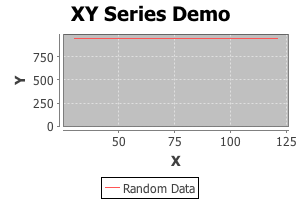
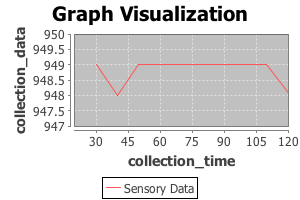
the updated version

diff --git a/Utils/JBPMEngine/src/main/java/at/ac/tuwien/dsg/utility/DesignChart.java b/Utils/JBPMEngine/src/main/java/at/ac/tuwien/dsg/utility/DesignChart.java
@@ -8,66 +8,68 @@ import java.awt.image.BufferedImage;
 import java.io.File;
 import java.util.LinkedList;
 import javax.imageio.ImageIO;
-import org.jfree.chart.ChartFactory;
-import org.jfree.chart.ChartPanel;
+import org.jfree.chart.*;
 import org.jfree.chart.JFreeChart;
+import org.jfree.chart.axis.NumberAxis;
+import org.jfree.chart.axis.NumberTickUnit;
 import org.jfree.chart.plot.PlotOrientation;
-import org.jfree.data.category.CategoryDataset;
-import org.jfree.data.category.DefaultCategoryDataset;
+import org.jfree.chart.plot.XYPlot;
 import org.jfree.data.xy.XYSeries;
 import org.jfree.data.xy.XYSeriesCollection;
-//import org.jfree.ui.ApplicationFrame;
+
 /**
  *
- * @author dsg
+ * @author Anindita
  */
 public class DesignChart {
-    LinkedList<String> row1=new LinkedList<String>();
    
-    public void chart(LinkedList<String> xValue, LinkedList<String> yValue) throws Exception
+    
+   public void chart(LinkedList<String> xValue, LinkedList<String> yValue) throws Exception
     {
         
-   XYSeries series = new XYSeries("Random Data");
-   for(int i=0;i<xValue.size();i++) 
-   {
+     XYSeries series = new XYSeries("Sensory Data");
+     final JFreeChart chart;
+   
+    //data assignment in the chart
+     {
+     for(int i=0;i<xValue.size();i++) 
+     {
        series.add(Double.parseDouble(xValue.get(i)), Double.parseDouble(yValue.get(i)));
-   }
-    /*series.add(1.0, 500.2);
-    series.add(5.0, 694.1);
-    series.add(4.0, 100.0);
-    series.add(12.5, 734.4);
-    series.add(17.3, 453.2);
-    series.add(21.2, 500.2);
-    series.add(21.9, 400);
-    series.add(25.6, 734.4);
-    series.add(30.0, 453.2);*/
-        final XYSeriesCollection data = new XYSeriesCollection(series);
-    final JFreeChart chart = ChartFactory.createXYLineChart(
-        "XY Series Demo",
-        "X", 
-        "Y", 
-        data,
-        PlotOrientation.VERTICAL,
-        true,
-        true,
-        false
-    );
-    System.out.println("chart is generated");
-        BufferedImage img=chart.createBufferedImage( 300, 200);
-    File outputfile = new File("./example/Sample.png");
-    ImageIO.write(img, "png", outputfile);
+      }
     
+       final XYSeriesCollection data = new XYSeriesCollection(series);
+       chart = ChartFactory.createXYLineChart(
+          "Graph Visualization",
+          "collection_time", 
+          "collection_data", 
+          data,
+          PlotOrientation.VERTICAL,
+          true,
+          true,
+          false
+        );
+      }
+     
+       //design the plot of the chart
+       {
+        XYPlot xyPlot = chart.getXYPlot();
+        NumberAxis xAxis = (NumberAxis)xyPlot.getDomainAxis();
+        NumberAxis yAxis = (NumberAxis)xyPlot.getRangeAxis();
+
+        xAxis.setRange(20, 120);
+        xAxis.setTickUnit(new NumberTickUnit(15));  
+        yAxis.setRange(947, 950);
+        yAxis.setTickUnit(new NumberTickUnit(0.5));
+       }
+   
+      //generation of the image  
+       {
+        BufferedImage img=chart.createBufferedImage( 300, 200);
+        File outputfile = new File("./example/Sample.png");
+        ImageIO.write(img, "png", outputfile);
+       }
     
     }
 
-   /*public static void main(String []p)
-   {
-       DesignChart chart12=new DesignChart();
-        try {
-            chart12.chart();
-            
-        } catch (Exception e) {
-        }
-   }*/
     }
 

diff --git a/Utils/JBPMEngine/src/main/java/at/ac/tuwien/dsg/utility/CassandraConnection.java b/Utils/JBPMEngine/src/main/java/at/ac/tuwien/dsg/utility/CassandraConnection.java
@@ -5,22 +5,12 @@
  */
 package at.ac.tuwien.dsg.utility;
 
-import at.ac.tuwien.dsg.jbpmengine.task.Receiver;
-import ch.qos.logback.classic.db.names.TableName;
 import com.datastax.driver.core.Cluster;
-import com.datastax.driver.core.ColumnDefinitions;
-import com.datastax.driver.core.ExecutionInfo;
-import com.datastax.driver.core.Host;
 import com.datastax.driver.core.Metadata;
 import com.datastax.driver.core.ResultSet;
 import com.datastax.driver.core.Row;
 import com.datastax.driver.core.Session;
-import com.google.common.util.concurrent.ListenableFuture;
-import static java.lang.System.out;
-import java.math.BigInteger;
-import java.util.Iterator;
 import java.util.LinkedList;
-import java.util.List;
 import java.util.StringTokenizer;
 
 /**
@@ -28,30 +18,15 @@ import java.util.StringTokenizer;
  * @author Anindita
  */
 public class CassandraConnection {
-     /** Cassandra Cluster. */
+    
    private Cluster cluster;
-
-   /** Cassandra Session. */
    private Session session;
 
-    /*private static final CassandraConnection INSTANCE = new CassandraConnection();
-    
-    public static CassandraConnection getInstance() {
-        return INSTANCE;
-    }*/
-   
-   
-   
+   //connected with cassandra
    public void connect(final String node, final int port)
    {
       this.cluster = Cluster.builder().addContactPoint(node).withPort(port).build();
       final Metadata metadata = cluster.getMetadata();
-      out.printf("Connected to cluster: %s\n", metadata.getClusterName());
-      for (final Host host : metadata.getAllHosts())
-      {
-         out.printf("Datacenter: %s; Host: %s; Rack: %s\n",
-            host.getDatacenter(), host.getAddress(), host.getRack());
-      }
       session = cluster.connect();
    }
    
@@ -59,17 +34,13 @@ public class CassandraConnection {
     public LinkedList<String> readAll(String xQuery)
       {
           LinkedList<String> queryValue=new LinkedList<String>();
-          //String xQuery= "SELECT "+xColumn+" FROM "+getkeySpaceName()+"."+getTableName()+" WHERE "+condition+";";
+         
           try
           {
             ResultSet results=session.execute(xQuery);
             int i=0;
             for(Row row : results.all())
                 {
-                    //BigInteger value;
-                //value = row.getVarint(i);
-                    /*String val1=value.toString();
-                    queryValue.add(val1);*/
                     StringTokenizer st=new StringTokenizer(row.toString(),"[]");
                     while(st.hasMoreTokens())
                     {
@@ -89,10 +60,10 @@ public class CassandraConnection {
           return queryValue;
       }
     
-    ///
+    /// check the existance of the table in a keyspace
     public Boolean getTableNotification(String tablequery, String tableName)
     {
-        //System.out.println("tableName   ="+getTableName());
+        
         Boolean value=false;
            ResultSet result=session.execute(tablequery);
            int i=0;
@@ -111,11 +82,10 @@ public class CassandraConnection {
                     
                     i++;
                 }
-           //System.out.println("result="+row.t);
-           return value;
+          return value;
            
     }
-     /** Close cluster. */
+     // Close cluster. 
    public void close()
    {
        cluster.close();

diff --git a/Utils/JBPMEngine/src/main/java/at/ac/tuwien/dsg/jbpmengine/task/Visualization.java b/Utils/JBPMEngine/src/main/java/at/ac/tuwien/dsg/jbpmengine/task/Visualization.java
@@ -8,9 +8,11 @@ package at.ac.tuwien.dsg.jbpmengine.task;
 import at.ac.tuwien.dsg.utility.DesignChart;
 import at.ac.tuwien.dsg.utility.CassandraConnection;
 import java.util.LinkedList;
+import java.util.logging.Level;
+import java.util.logging.Logger;
 /**
  *
- * @author Jun
+ * @author Anindita
  */
 public class Visualization {
     private static final Visualization INSTANCE = new Visualization();
@@ -25,36 +27,22 @@ public class Visualization {
 
     public void start(String keySpaceName, String tableName, String x, String y, String condition) {
         
-        
+        // retriving the column data using cassandra 
         client.connect(ipAddress, port);
-        
-        System.out.println("Sampling Starting ..."+keySpaceName+ "   table ="+tableName);
-       //String xQuery="SELECT collection_data FROM sensor.sensor21 WHERE collection_date = '2010/12/10';";
-       String xQuery= "SELECT "+x+" FROM "+keySpaceName+"."+tableName+" WHERE "+condition+";";
+        String xQuery= "SELECT "+x+" FROM "+keySpaceName+"."+tableName+" WHERE "+condition+";";
         LinkedList<String> xValue=client.readAll(xQuery);
-        for(int i=0;i<xValue.size();i++)
-        {
-            System.out.println("from sampling   ====="+xValue.get(i));
-        }
-        
         String yQuery= "SELECT "+y+" FROM "+keySpaceName+"."+tableName+" WHERE "+condition+";";
-       LinkedList<String> yValue=client.readAll(yQuery);
+        LinkedList<String> yValue=client.readAll(yQuery);
         
-        
-        
-        //algorithm
-
+        // visualize data in chart
         DesignChart chart12=new DesignChart();
         try {
             chart12.chart(xValue, yValue);
             
-        } catch (Exception e) {
-            System.out.println("Exception occured in sampling: "+e);
+        } catch (Exception ex) {
+            Logger.getLogger(Visualization.class.getName()).log(Level.SEVERE, null, ex);
         }
         
-        //System.out.println("ClassValue=" + samplingPercentage);
-        System.out.println("Sampling Completed ...");
-        
-        client.close();
+         client.close();
     }
 }

diff --git a/Utils/JBPMEngine/src/main/java/at/ac/tuwien/dsg/jbpmengine/engine/WorkflowEngine.java b/Utils/JBPMEngine/src/main/java/at/ac/tuwien/dsg/jbpmengine/engine/WorkflowEngine.java
@@ -7,15 +7,11 @@ package at.ac.tuwien.dsg.jbpmengine.engine;
 
 /**
  *
- * @author Jun
+ * @author Anindita
  */
 
 import java.util.HashMap;
 import java.util.Map;
-//import org.eclipse.jdt.internal.compiler.lookup.ProblemReasons;
-//import at.ac.tuwien.dsg.jbpmengine.task.Receiver;
-
-
 import org.kie.internal.KnowledgeBase;
 import org.kie.internal.builder.KnowledgeBuilder;
 import org.kie.internal.builder.KnowledgeBuilderFactory;
@@ -51,28 +47,20 @@ public class WorkflowEngine {
             StatefulKnowledgeSession ksession = kbase.newStatefulKnowledgeSession();
             KnowledgeRuntimeLogger logger = KnowledgeRuntimeLoggerFactory.newThreadedFileLogger(ksession, "test", 1000);
             
-           Boolean existValue=false;
-           //Query.getInstance().getExist();
-            // start a new process instance
-            Map<String, Object> params = new HashMap<String, Object>();
-          //  params.put("count", 5);
-            //params.put("ac.at.tuwien.dsg.daw1_P_1", 9.8);
-            params.put("exist", existValue);
-            params.put("tableName", new String());
-            params.put("keySpaceName", new String());
-            ksession.startProcess("ac.at.tuwien.dsg.daw1", params);
+            // specify the process variable
+             Map<String, Object> params = new HashMap<String, Object>();
+             params.put("exist", false);
+             params.put("tableName", new String());
+             params.put("keySpaceName", new String());
+             ksession.startProcess("ac.at.tuwien.dsg.daw1", params);
             
-            
-            
-            
-            
-            logger.close();
+             logger.close();
         } catch (Throwable t) {
             t.printStackTrace();
         }
 
     }
-
+         //pass the bpmn workflow diagram
     private KnowledgeBase readKnowledgeBase() throws Exception {
         KnowledgeBuilder kbuilder = KnowledgeBuilderFactory.newKnowledgeBuilder();
         kbuilder.add(ResourceFactory.newClassPathResource(daw+".bpmn"), ResourceType.BPMN2);

diff --git a/Utils/JBPMEngine/src/main/java/at/ac/tuwien/dsg/jbpmengine/task/Receiver.java b/Utils/JBPMEngine/src/main/java/at/ac/tuwien/dsg/jbpmengine/task/Receiver.java
@@ -1,7 +1,6 @@
 package at.ac.tuwien.dsg.jbpmengine.task;
 
 import at.ac.tuwien.dsg.utility.CassandraConnection;
-import java.util.LinkedList;
 
 /**
  *
@@ -21,28 +20,12 @@ public class Receiver {
     }
     
    
-  
-
     public Boolean start(String tableName, String keySpaceName) {
        
        client.connect(ipAddress, port);
-        
-        System.out.println("Query Starting ...");
-        String tableQuery="SELECT columnfamily_name FROM system.schema_columnfamilies WHERE keyspace_name='"+keySpaceName+"';";
-        
-        exist=client.getTableNotification(tableQuery, tableName); 
-        
-        //String xQuery="SELECT collection_data FROM sensor.sensor21 WHERE collection_date = '2010/12/10';";
-        //String xQuery= "SELECT "+x+" FROM "+keySpaceName+"."+tableName+" WHERE "+condition+";";
-        //LinkedList<String> xValue=client.readAll(xQuery);
-        
-        System.out.println("SQL: " + exist);
-        
-        
-        
-        
-        client.close();
-        
+       String tableQuery="SELECT columnfamily_name FROM system.schema_columnfamilies WHERE keyspace_name='"+keySpaceName+"';";
+       exist=client.getTableNotification(tableQuery, tableName); 
+       client.close();
        return exist;
         
     }

diff --git a/Utils/JBPMEngine/src/main/java/at/ac/tuwien/dsg/jbpmengine/task/Wearning.java b/Utils/JBPMEngine/src/main/java/at/ac/tuwien/dsg/jbpmengine/task/Wearning.java
@@ -23,18 +23,11 @@ public class Wearning {
     }
 
     public void start(String tableName, String keySpaceName) {
-        System.out.println("MultiLinearCurveFitting Starting ...");
+        //visualize the waerning
         JOptionPane optionPane = new JOptionPane("There need the further checking of tablename="+tableName+" and keySpaceName="+keySpaceName, JOptionPane.ERROR_MESSAGE);    
         JDialog dialog = optionPane.createDialog("Failure");
         dialog.setAlwaysOnTop(true);
         dialog.setVisible(true);
-        //dialog.setDefaultCloseOperation(JDialog.DO_NOTHING_ON_CLOSE);
-        //algorithm
        
-    
-
-    
-
-        System.out.println("MultiLinearCurveFitting Completed ...");
     }
 }
